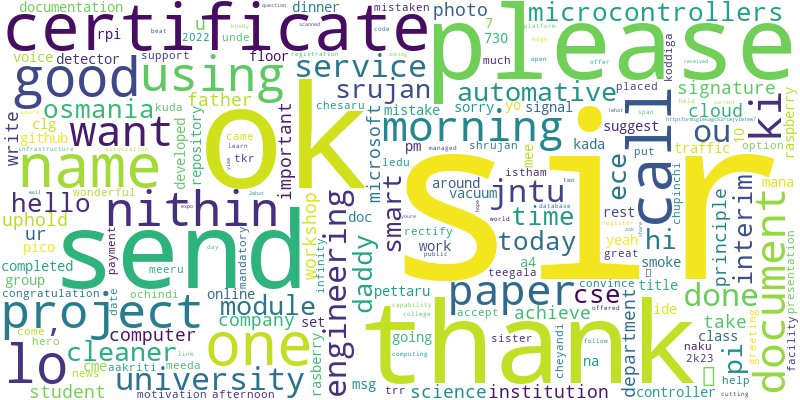
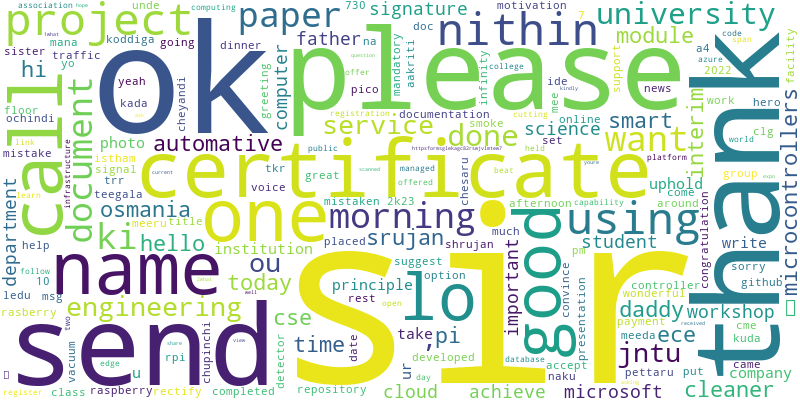
edited flask app

diff --git a/flask_app/templates/results.html b/flask_app/templates/results.html
@@ -41,6 +41,8 @@
         <img src="{{ url_for('static', filename='images/wordcloud.png') }}" alt="Word Cloud">
         <h2>Message Volumes Over Time</h2>
         <img src="{{ url_for('static', filename='images/message_volumes.png') }}" alt="Message Volumes">
+        <h2>Message Volumes Over Time</h2>
+        <img src="{{ url_for('static', filename='images/message_volumes.png') }}" alt="Message Volumes">
     </div>
 </body>
 </html>

diff --git a/flask_app/app.py b/flask_app/app.py
@@ -155,9 +155,30 @@ def analyze():
     relevant_topics = most_relevant(topic_distribution)
     data['LDA'] = relevant_topics
 
+    print(fdist)
     # Visualization for word cloud and message volumes
     wordcloud = WordCloud(width=800, height=400, background_color='white').generate_from_frequencies(fdist)
-    wordcloud.to_file('static/images/wordcloud.png')
+    wordcloud.to_file('./static/images/wordcloud.png')
+    
+    def get_sentiment(text):
+        sentiment = sentiments.polarity_scores(text)
+        return sentiment['compound']
+
+    data['sentiment_compound'] = data['Tokenized_mgs'].apply(get_sentiment)
+
+    # Aggregate sentiment scores by date
+    data["Date"] = pd.to_datetime(data['Date'])
+    data['Date'] = data['Date'].dt.date
+    daily_sentiment = data.groupby('Date')['sentiment_compound'].mean().reset_index()
+
+    # Plot sentiment trends
+    plt.figure(figsize=(10, 5))
+    sns.lineplot(data=daily_sentiment, x='Date', y='sentiment_compound', marker='o')
+    plt.title('Sentiment Trend')
+    plt.xlabel('Date')
+    plt.ylabel('Average Sentiment')
+    plt.grid(True)
+    plt.show()
 
     message_counts = data.groupby('Date').size().reset_index(name='Message Count')
     plt.figure(figsize=(14, 7))
@@ -173,4 +194,4 @@ def analyze():
     return render_template('results.html', common_words=common_words, sentiment_logs=sentiment_logs.to_dict('records'))
 
 if __name__ == '__main__':
-    app.run(debug=True)
+    app.run(debug=True, host='0.0.0.0', port=5050)
